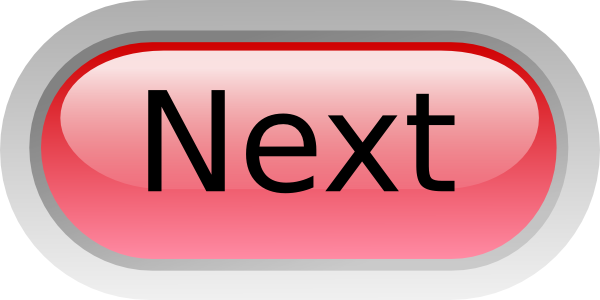
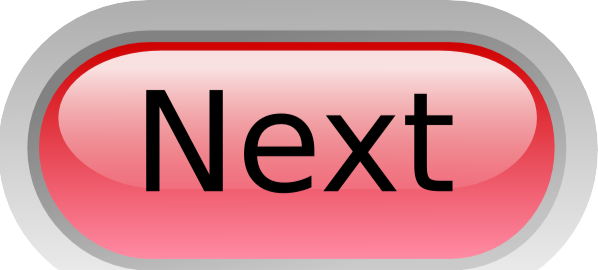
change guide path
1.first show input then output

diff --git a/frontend/Present/src/pages/Normal.vue b/frontend/Present/src/pages/Normal.vue
@@ -19,7 +19,7 @@
         <PictureInput :class="$style.fixedPictureInput" />
       </section>
       <!-- 問號圖標 -->
-      <router-link :to="{ path: '/guide' }" :class="$style.helpIcon">
+      <router-link :to="{ path: '/guide-show' }" :class="$style.helpIcon">
         <img alt="Help Icon" src="/help1.svg" />
       </router-link>
     </main>

diff --git a/frontend/Present/src/pages/Guide.vue b/frontend/Present/src/pages/Guide.vue
@@ -55,7 +55,7 @@ export default defineComponent({
   components: { FrameComponent1 },
   methods: {
     goToGuideShow() {
-      this.$router.push({ name: "GuideShow" }); // 跳轉到名稱為 GuideShow 的路由
+      this.$router.push({ name: "Normal" }); // 跳轉到名稱為 GuideShow 的路由
     },
   },
 });

diff --git a/frontend/Present/src/pages/GuideShow.vue b/frontend/Present/src/pages/GuideShow.vue
@@ -58,7 +58,7 @@ export default defineComponent({
   components: { PictureInput },
   methods: {
     handleNextClick() {
-      this.$router.push({ name: "Normal" });
+      this.$router.push({ name: "Guide" });
     },
     preventOtherClicks(e: MouseEvent) {
       const target = e.target as HTMLElement;
